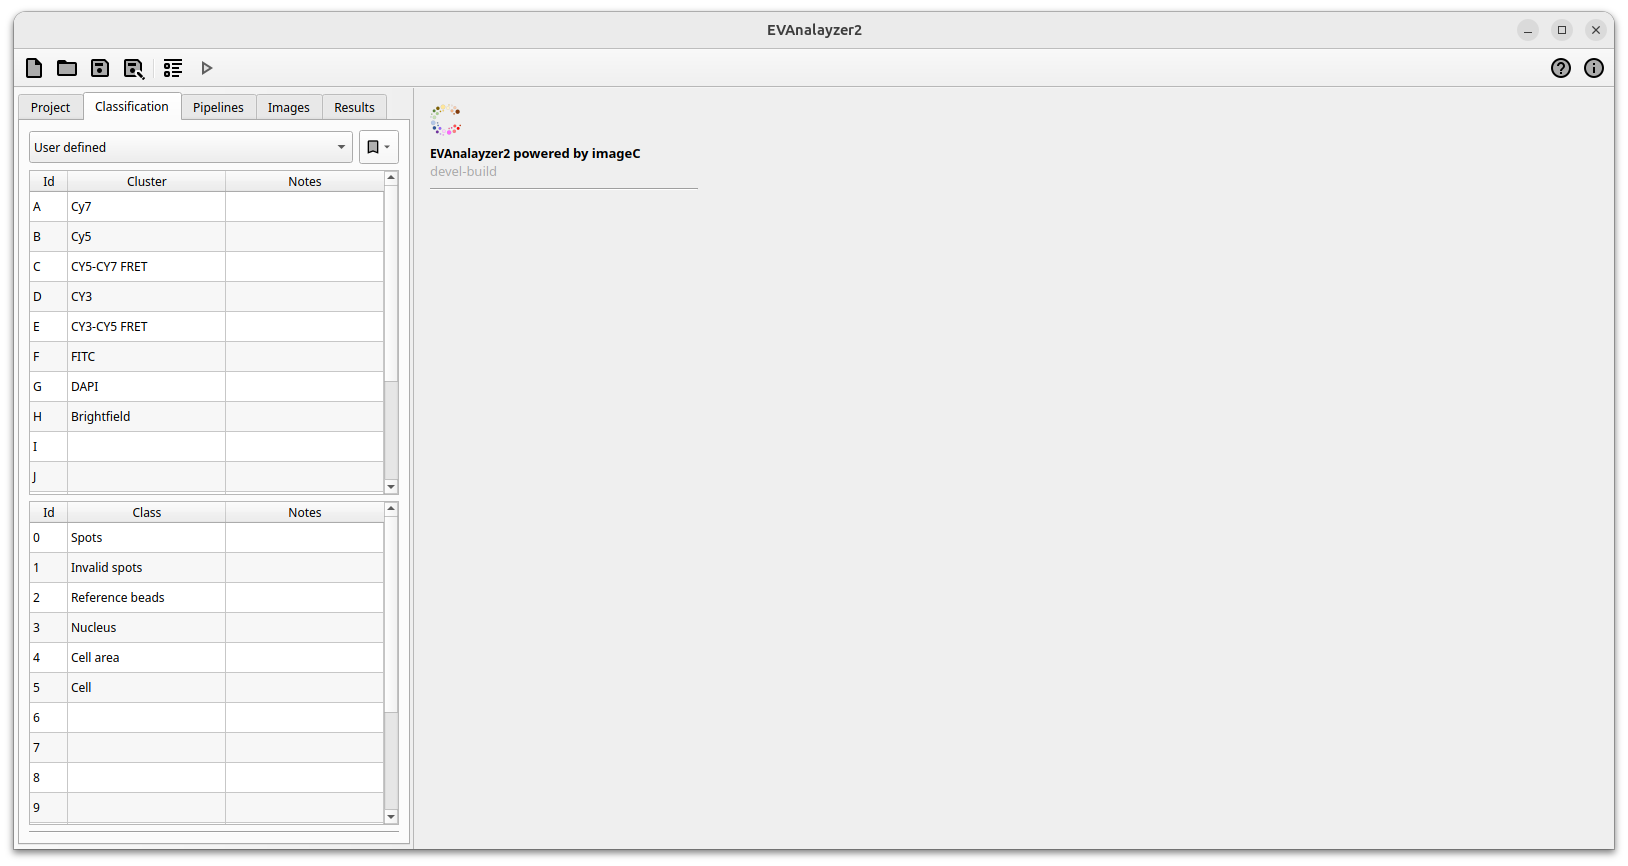
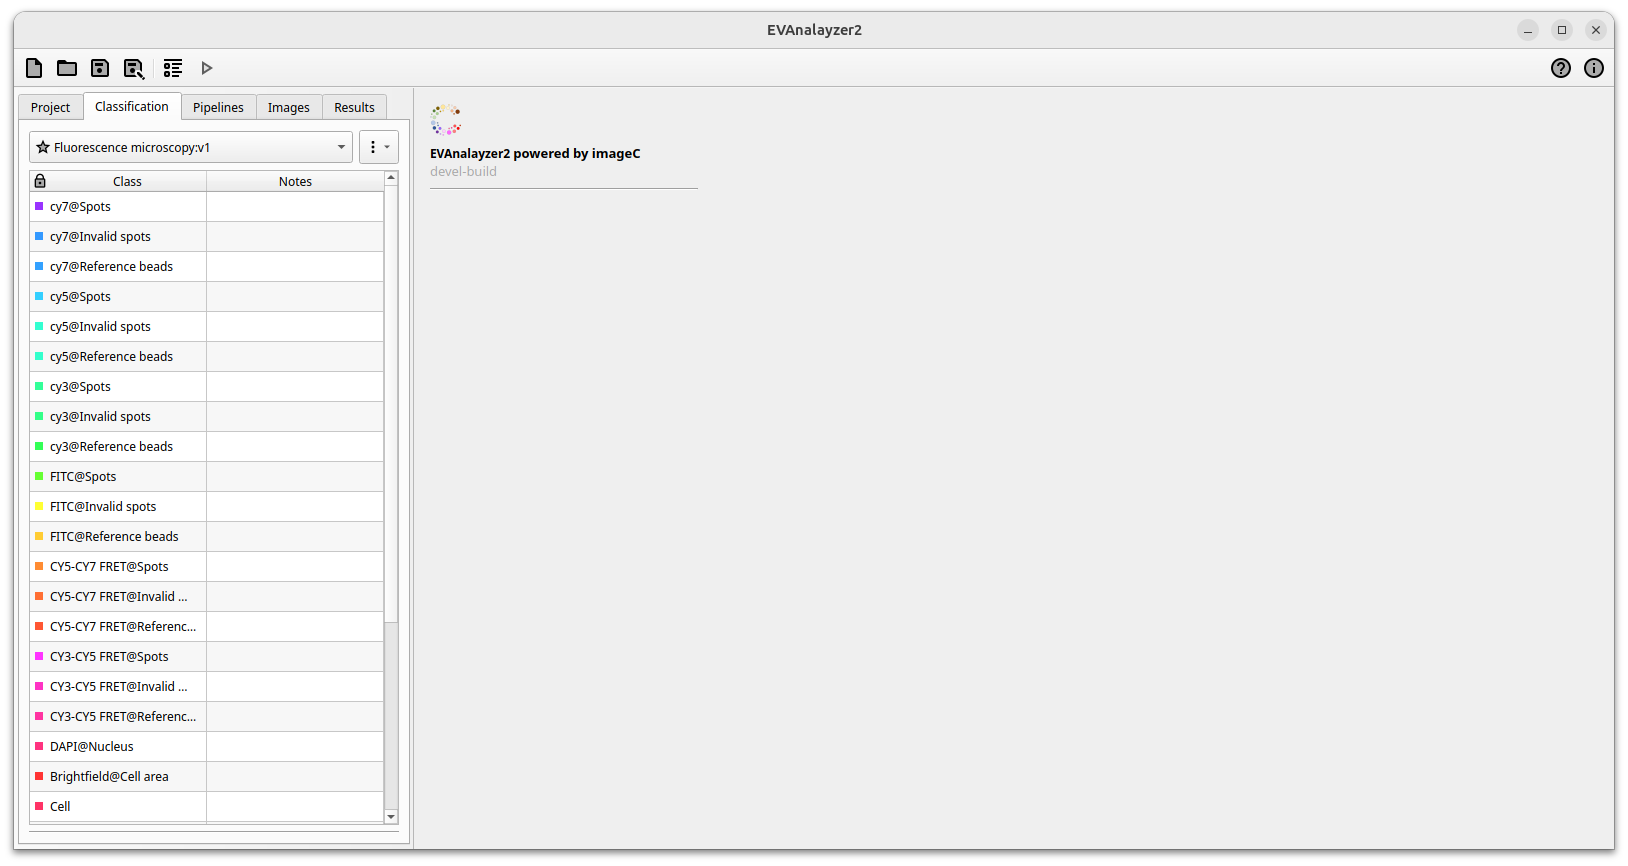
chore: Removed clusters

diff --git a/conf.py b/conf.py
@@ -160,7 +160,9 @@ myst_substitutions = {
     "icon_add": '<img src="../images/icons/icons8-add-96.png" class="inline-icon" />',
     "tool_add": '<img src="../images/icons/icons8-add-96.png" class="tool-icon" />',
 
-
+    "menu": '<img src="../images/icons/icons8-menu-96.png />',
+    "icon_menu": '<img src="../images/icons/icons8-menu-96.png" class="inline-icon" />',
+    "tool_menu": '<img src="../images/icons/icons8-menu-96.png" class="tool-icon" />',
 
 
     "max_classes": "65535",

diff --git a/docs/fundamentals/classification.md b/docs/fundamentals/classification.md
@@ -5,36 +5,37 @@ The concept behind ImageC is to run pipelines containing image pre-processing an
 For each extracted [object](objects) the origin information: image, image channel, z-stack and t-stack are stored.
 In Advanced, [objects](objects) need to be classified for object statistics calculation and later quantification.
 
-For classification ImageC provides the annotations {guilabel}`Cluster` and {guilabel}`Class`.
-Every object is annotated with exact one cluster and one class.
+For classification ImageC provides the annotations {guilabel}`Class`.
+Every object is annotated with exact one class.
 
 
-(clusters-and-classes)=
-## Clusters and Classes
+(classes)=
+## Classes
 
-The first step before creating pipelines or starting the analysis is to define which clusters and classes are needed for object classification in your application.
-Both can be done at the {guilabel}`Classification` tab in the left sidebar.
+The first step before creating pipelines or starting the analysis is to define which classes are needed for object classification in your application.
+Use the {guilabel}`Classification` tab to make the classification settings.
 
 ```{figure} images/screenshot_classification.png
 :class: full-image
 Classification tab
 ```
 
-As a best practice, clusters should represent the image channels plus the necessary object pre-processing pipelines such as coloc.
-ImageC provides a preset functionality.
-Predefined sets of commonly used classification settings can be loaded instead of defining the clusters and groups yourself.
-Each pre-defined classification set supplied with ImageC contains a unique ID stored with the set.
-Any run performed with a classification set using the same ID can be compared.
+Double-clicking on a {guilabel}`Class` cell opens a dialog. 
+In addition to the color, the name for the class can be specified.
+Using the `@` symbol allows to group classes for a better reading in the selection tab.
+
+Instead of manually specifying all required classes, ImageC provides the ability to populate the classification settings from the image channel information.
+Open the menu {{icon_menu}} and use the {guilabel}`Populate classes from image channel` option to let ImageC try to extract the classification settings from an image. 
 
 (classification-presets)=
 ## Presets
 
 ImageC also allows to create classification presets by selecting a preset from the drop down in the {guilabel}`Classification` tab.
-A classification preset is a set of predefined clusters and classes which can be loaded and shared with others.
+A classification preset is a set of predefined classes which can be loaded and shared with others.
 The idea behind a preset is making results easier comparable by using the same nomenclator for each analysis.
-For that reason the editing of class and cluster name is locked when a preset is selected.
+For that reason the editing of class names is locked when a preset is selected.
 
-Using the {{icon_bookmark}} menu allows to create a new preset from an existing (removing the lock) and saving new presets based on the actual taken settings.  
+Using the {guilabel}`Save as template` option within the menu {{icon_menu}} allows to create a new preset from an existing (removing the lock) and saving new presets based on the actual taken settings.  
 
 Each preset provided by ImageC is identified by an unique identifier which is stored together with the preset.
 This UID allows to reload the correct preset when settings are loaded.

diff --git a/docs/starting/first_steps.md b/docs/starting/first_steps.md
@@ -5,7 +5,7 @@ The following tutorial will provide an overview of the fundamental concepts and 
 The tutorial will demonstrate the following:
 
 - Creating a new project
-- Defining clusters and classes
+- Defining classes
 - Adding pipelines
 - Starting an analyzes
 - Open analyzes results
@@ -116,7 +116,7 @@ ImageC images tab
 (classification-tab)=
 ## Classification tab
 
-First before creating pipelines and starting the analysis the object clusters and classes must be defined.
+First before creating pipelines and starting the analysis the object classes must be defined.
 
 ```{figure} images/screenshot_classification.png
 :class: full-image
@@ -124,10 +124,9 @@ First before creating pipelines and starting the analysis the object clusters an
 ImageC classification tab
 ```
 
-Clusters and classes are used to scope the detected objects needed for a later on statists generation.
-ImageC allows to either define own clusters and classes or to load a preset of clusters and classes from a template.
+Classes are used to scope the detected objects needed for a later on statists generation.
+ImageC allows to either define own classes or to load a preset of classes from a template.
 
-As a best practice clusters represents the image channel the object was extracted from and classes the different object types.
 For a quick start the {guilabel}`Fluorescence microscopy` template can be selected.
 To edit a loaded preset the option {guilabel}`New from template` can be used.
 
@@ -156,8 +155,6 @@ Setting with one added channel
 By clicking on a pipeline, the pipeline editor is opened.
 On the left hand side the input and output options can be defined.
 The input of a pipeline can either be an image channel or an empty image.
-The output cluster and class define which cluster and class objects detected within this pipeline should be assigned to by default.
-However this option can be overridden within a pipeline step if necessary.
 
 The {guilabel}`Pipeline steps` box contains all commands which are applied on the input image.
 All steps are performed from top to bottom.

diff --git a/docs/commands/command_classifier.md b/docs/commands/command_classifier.md
@@ -4,7 +4,7 @@
 :::{sidebar} Objects
 
 Objects are extracted from a binary image representing thee regions of interest of the image.
-For each extracted object a class and cluster is assigned and metrics are measured.
+For each extracted object a class is assigned and metrics are measured.
 Objects are stored to the resulting database and can be used in further pipeline steps.
 
 ```{figure} images/classifier.drawio.svg
@@ -18,7 +18,7 @@ Objects are stored to the resulting database and can be used in further pipeline
 :class: small-image
 ```
 
-The Classifier command is used to convert regions of interest, formally extracted from the image using a segmentation algorithm such as [Threshold](command-threshold), into objects, where each object is assigned to an object cluster and object class, and metrics are calculated for each object.
+The Classifier command is used to convert regions of interest, formally extracted from the image using a segmentation algorithm such as [Threshold](command-threshold), into objects, where each object is assigned to an object class, and metrics are calculated for each object.
 [Classified](classification) objects are stored to the resulting database and can be used in further object-processing steps.
 
 

diff --git a/docs/fundamentals/objects.md b/docs/fundamentals/objects.md
@@ -5,7 +5,7 @@
 Objects are the result of an image [classification step](commands-object-classification) and represents the quantified data of an formally extracted region of interest.
 Objects are the final part of an ImageC pipeline and are those elements which are finally stored to the results database.
 
-Each object is assigned to exact one object class and one object cluster (See [classification](Classification) section) to scope it.
+Each object is assigned to exact one object class (See [classification](Classification) section) to scope it.
 Together with the classification labels some object metrics are calculated.
 ImageC distinguishes between [image plane](image-planes) independent and [image plane](image-planes) dependent metrics.
 Image plane independent metrics are globally valid for the object whereby image plane dependent metrics are calculated based on the image pixel data.

diff --git a/docs/fundamentals/pipelines.md b/docs/fundamentals/pipelines.md
@@ -41,8 +41,8 @@ Using a blank image is useful for use cases where you are working with objects f
 ## Pipeline output
 
 Some of the processing steps are used to extract objects from the input images.
-Each detected object is [classified](classification) by assigning to exact on cluster and class.
-The settings in this section allow you to specify the default cluster and class that will be used for each detected object, unless specified otherwise within a pipeline step.
+Each detected object is [classified](classification) by assigning to exact on class.
+The settings in this section allow you to specify the default class that will be used for each detected object, unless specified otherwise within a pipeline step.
 
 
 ## Pipeline steps

diff --git a/docs/commands/index.md b/docs/commands/index.md
@@ -41,7 +41,7 @@ command_threshold_filter
 ## Object classification
 
 Once objects are segmented, the resulting region of interests have to be classified.
-Classification in ImageC is the process of converting regions of interest into objects, assigning each object to a class and cluster, and calculating object metrics.
+Classification in ImageC is the process of converting regions of interest into objects, assigning each object to a class and calculating object metrics.
 
 ImageC provides an object classifier based on segmented images (e.g. after applying a threshold) and an AI classifier which can directly be applied to an image without the need of segmentation before.
 
